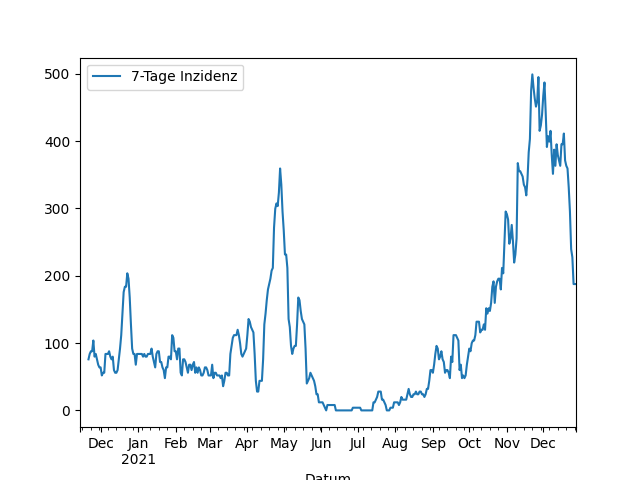
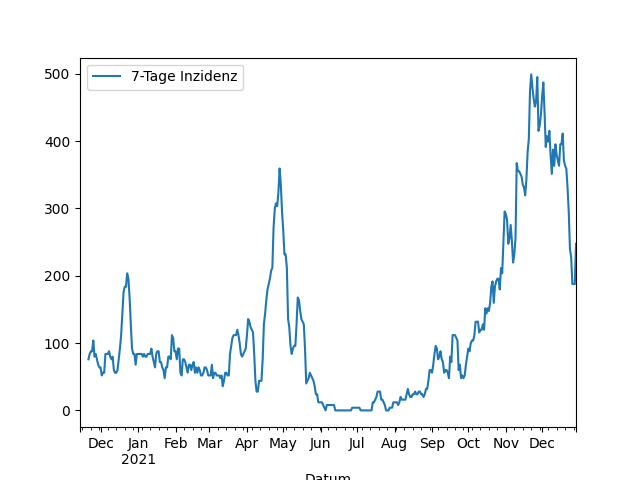
Update images

diff --git a/_includes/aktuelle_inzidenz.md b/_includes/aktuelle_inzidenz.md
@@ -1,1 +1,1 @@
-187,6
+247,5
